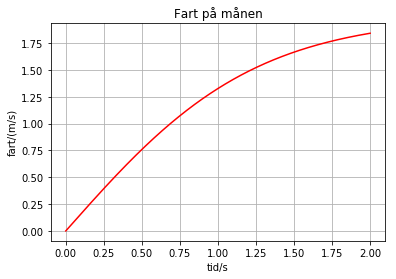
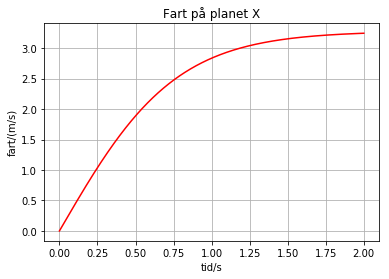
Endret fra månen til planet X

Changed region(s): [[0.0, 0.0287, 0.9871, 0.9749], [0.8021, 0.8889, 0.8329, 0.9176]]

diff --git a/pages/03_dag2/programmering_endrer/Programmering_endrer.md b/pages/03_dag2/programmering_endrer/Programmering_endrer.md
@@ -1,0 +1,176 @@
+---
+layout: page
+title: Programmering endrer fagene
+---
+# Programmering endrer fagene
+Denne økta handler om hvordan programmering kan endre fagene når vi ikke lenger er begrenset av hva som er analytisk løsbart eller elevenes matematiske kompetanse. 
+
+Vi starter med å se på mekanikken, men vi kunne like gjerne hentet eksempler fra andre fagområder. I ungdomsskolen lærer elevene om sammenhengen mellom posisjon, fart og akselerasjon. Der lærer de også om krefter og energi. Men det er svært begrenset hva de kan se på av virkelighetsnære problemstillinger. 
+
+I Fysikk 1 på videregående skole tas mekanikken litt lenger og en enkel modell for friksjon blir introdusert. Likevel er det begrenset hva elevene kan modellere pga manglende matematikkompetanse. 
+
+## Fallende muffinsformer
+La oss se på fall med luftmotstand. Mange lærere har nok sluppet en og to muffinsformer for å illustrere at luftmotstanden øker med kvadratet av farten. En algebraisk øvelse på dette gir oss at hvis vi holder en muffinsform i en gitt høyde $H$ over bakken og så to oppi hverandre i høyden $\sqrt{2}\cdot{H}$, så vil de to muffinsformene treffe bakken på likt. 
+
+Men hva om vi vil studere hele bevegelsen og plotte f.eks. tid og fart? Vi kunne bruke en bevegelsessensor til å logge posisjon som funksjon av tid når muffinsformene faller, og så forsøke å lage en modell som beskriver bevegelsen.
+
+Med Newtons andre lov og kunnskap om sammenhengen mellom posisjon, fart og akselerasjon har elevene nok kompetanse til å programmere dette for å finne en løsning. 
+
+### Underveisoppgave
+1. Lag et fri-legeme diagram av en fallende muffinsform (med luftmostand!). Vi setter tyngden $G=mg$ og luftmotstanden $L=kv^{2}$.
+2. Bruk Newtons andre lov og forklar at denne gir oss følgende differensiallikning: 
+$\frac{dv}{dt}=g-\frac{k}{m}v^2.$ Hvordan kan vi bruke differensialligningen til å regne ut akselerasjonen ved gitt tidspunkt når hastigheten er gitt?
+3. Forklar hvorfor vi kan skrive $v_{i+1}=v_{i}+a_{i}\cdot{dt} $ når vi tar små tidssteg. Her er $v_i$ tilnærmet hastighet ved tidspunkt $t_i$ og $v_{i+1}$ tilnærmet hastighet ved tidspunkt $t_{i+1}$.
+
+Vi prøver oss på selve programmeringen! 
+
+
+```python
+#Fallende muffinsformer
+
+
+from pylab import *
+
+#Fysiske størrelser
+g=9.81  #tyngdeakselerasjon i m/s/s
+m=0.5   #masse til gjenstand som faller i kg
+k=0.2   #luftmotstandskoeffisient i Nsmm
+
+#Tidsintervaller
+N=10000    #antall intervaller
+tid=2       #antall sekunder
+dt=tid/(N)
+
+#Vektorer/arrays
+a=zeros(N)  #akselerasjon i m/s/s
+v=zeros(N)  #fart i m/S
+s=zeros(N)  #posisjon i m
+t=zeros(N)  #tid i sekunder
+
+#Initialbetingelser
+v[0]=0  #startfart 0 m/s
+s[0]=0  #startposisjon 0
+```
+
+Husk å lage oversiktelige og lesbare programmer - både med tanke på deg selv og elevene. 
+
+Nå har vi lagt klart arrayer med 10000 punkter i hver for både akselerasjon, fart, posisjon og tid. Det neste blir å fylle disse arrayene med tallverdier basert på difflikningen. Det gjør vi med en for-løkke. 
+
+
+```python
+#Eulers metode
+for i in range(N-1):
+    a[i]=g-(k/m)*v[i]**2   #utledet fra Newtons 2. lov
+    v[i+1]=v[i]+a[i]*dt
+    s[i+1]=s[i]+v[i]*dt
+    t[i+1]=t[i]+dt
+
+```
+
+### Underveisoppgave
+1. Hvorfor bruker vi en for-løkke og ikke en while-løkke her?
+2. Hvorfor går løkken til N-1 og ikke til N?
+3. Lag en verditabell for a, v og t for de tre første rundene i løkken. Fyll inn tall i tabellen slik at du skriver med ulik farge avhengig av hvilken runde det er i løkken. Beskriv det du ser. 
+4. Hva blir  verdien til akselerasjonen i det siste punktet? Kan du fikse på programmet ditt så dette blir løst?
+
+
+Nå skal vi plotte resultatet. Først velger vi å plotte både akselerasjonsgraf, fartsgraf og veigraf. Du ser at det kommer litt oppi hverandre. Eksperimenter med kommandoen tight_layout() og se hvordan den virker. Husk at du kan kommentere ut hele deler av programmet ved å lage """ før og etter de linjene du vil kommentere ut. 
+
+
+```python
+#Plotting
+subplot(3,1,1)
+plot(t,a,'b-')
+title('Akselerasjon')
+xlabel('tid/s')
+ylabel('akselerasjon/(m/s/s)')
+grid()
+
+subplot(3,1,2)
+plot(t,v,'r-')
+title('Fart')
+xlabel('tid/s')
+ylabel('fart/(m/s)')
+grid()
+
+subplot(3,1,3)
+plot(t,s,'g-')
+title('Posisjon')
+xlabel('tid/s')
+ylabel('posisjon/m')
+grid()
+
+"""
+Nå har jeg kommentert 
+ut alle disse
+linjene 
+"""
+```
+
+
+
+
+    '\nNå har jeg kommentert \nut alle disse\nlinjene \n'
+
+
+
+
+![png](output_6_1.png)
+
+
+## Litt om modellering
+Med dette lille programmet åpner det seg opp mange nye muligheter for å utforske naturvitenskapelige problemstillinger på en ny og dypere måte. 
+Elevene kan selv undersøke betydningen av de ulike fysiske størrelsene. Hvor raskt oppnår gjenstanden terminalfart når massen endrer seg? Hva med koeffisienten $k$? Kan vi si noe om denne for ulike gjenstander? Og hva om vi var på en annen planet? Ved å endre på de fysiske størrelsene i begynnelsen av programmet kan datamaskinen regne ut 100 000 punkter for tid, posisjon, fart og akselerasjon på praktisk talt null tid. Dermed kan elevene bruke mer tid til å bygge en intuisjon for fysikkfaget. 
+
+Vi er heller ikke begrenset av modellen $L=kv^2$. Vi kan lett undersøke helt andre modeller som ikke gir løsbare differensiallikninger, men som kan løses numerisk. Her er det bare fantasien som setter grenser :)
+
+
+```python
+#Fart på jorda eller på en annen planet?
+
+#Jorda
+g = 9.8
+
+#Eulers metode
+for i in range(N-1):
+    a[i]=g-k*v[i]**2/m   #utledet fra Newtons 2. lov
+    v[i+1]=v[i]+a[i]*dt
+    s[i+1]=s[i]+v[i]*dt
+    t[i+1]=t[i]+dt
+
+plot(t,v,'r-')
+title('Fart på jorda')
+xlabel('tid/s')
+ylabel('fart/(m/s)')
+grid()
+show()
+
+#Planet X
+g = 4.3
+
+#Eulers metode
+for i in range(N-1):
+    a[i]=g-k*v[i]**2/m   #utledet fra Newtons 2. lov
+    v[i+1]=v[i]+a[i]*dt
+    s[i+1]=s[i]+v[i]*dt
+    t[i+1]=t[i]+dt
+    
+plot(t,v,'r-')
+title('Fart på planet X')
+xlabel('tid/s')
+ylabel('fart/(m/s)')
+grid() 
+show()
+```
+
+
+![png](output_8_0.png)
+
+
+
+![png](output_8_1.png)
+
+
+### Underveisoppgave
+Finn ut hvor lang tid det tar før gjenstanden når terminalfart på planet X. 
+
